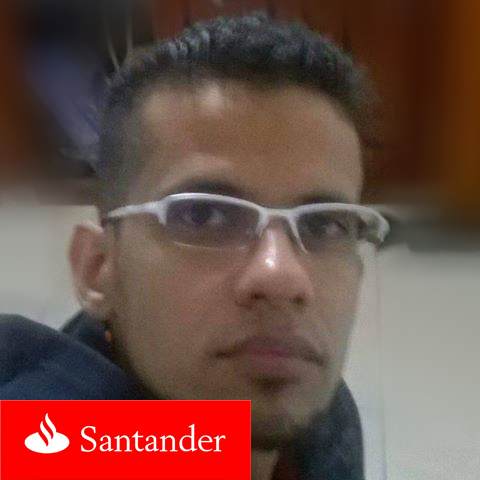
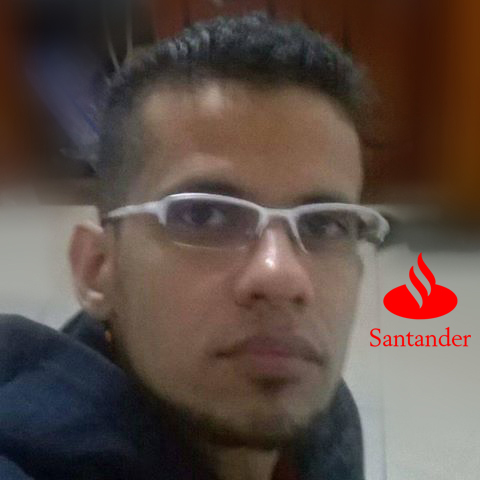
Auto-generated commit [ci skip]

Changed region(s): [[0.0, 0.8125, 0.5312, 1.0], [0.75, 0.5312, 1.0, 0.75]]

diff --git a/404.html b/404.html
@@ -9,7 +9,7 @@
   <meta property="og:description" content="Frontend em Angular do DevWeek Java+Angular - Santander / Digital Innovation One"/>
   <meta property="og:url" content="http://bootcamp-java-santander.herokuapp.com/bootcamp/swagger-ui/index.html?configUrl=/bootcamp/v3/api-docs/swagger-config#"/>
   <!-- <meta property="og:type" content="video.movie" />-->
-  <meta property="og:image" content="https://user-images.githubusercontent.com/55901214/120249500-7ff78700-c251-11eb-821f-c9546cb5400d.jpg"/>
+  <meta property="og:image" content="https://user-images.githubusercontent.com/55901214/120249842-8e926e00-c252-11eb-8e3d-4c88701ad9e4.jpg"/>
   <link rel="icon" type="image/x-icon" href="favicon.ico">
   <link rel="stylesheet" href="https://cdnjs.cloudflare.com/ajax/libs/normalize/8.0.1/normalize.min.css" integrity="sha512-NhSC1YmyruXifcj/KFRWoC561YpHpc5Jtzgvbuzx5VozKpWvQ+4nXhPdFgmx8xqexRcpAglTj9sIBWINXa8x5w==" crossorigin="anonymous"/>
 <link rel="stylesheet" href="styles.7226a97a8b8664e9bc0c.css"></head>

diff --git a/index.html b/index.html
@@ -9,7 +9,7 @@
   <meta property="og:description" content="Frontend em Angular do DevWeek Java+Angular - Santander / Digital Innovation One"/>
   <meta property="og:url" content="http://bootcamp-java-santander.herokuapp.com/bootcamp/swagger-ui/index.html?configUrl=/bootcamp/v3/api-docs/swagger-config#"/>
   <!-- <meta property="og:type" content="video.movie" />-->
-  <meta property="og:image" content="https://user-images.githubusercontent.com/55901214/120249500-7ff78700-c251-11eb-821f-c9546cb5400d.jpg"/>
+  <meta property="og:image" content="https://user-images.githubusercontent.com/55901214/120249842-8e926e00-c252-11eb-8e3d-4c88701ad9e4.jpg"/>
   <link rel="icon" type="image/x-icon" href="favicon.ico">
   <link rel="stylesheet" href="https://cdnjs.cloudflare.com/ajax/libs/normalize/8.0.1/normalize.min.css" integrity="sha512-NhSC1YmyruXifcj/KFRWoC561YpHpc5Jtzgvbuzx5VozKpWvQ+4nXhPdFgmx8xqexRcpAglTj9sIBWINXa8x5w==" crossorigin="anonymous"/>
 <link rel="stylesheet" href="styles.7226a97a8b8664e9bc0c.css"></head>
